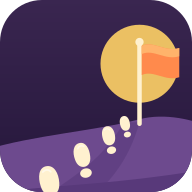
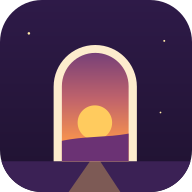
아이콘을 H안(아치 문 + 해 지는 풍경, 사람 없음)으로 교체
사용자가 고른 H 시안에서 사람·깃발을 뺀 버전. icons/·beta/icons/ 5종+favicon, sw v92c.
후보 E·F·G·H는 dev/icon-ideas에 보관.

Claude-Session: https://claude.ai/code/session_01A2etAarZHPcTgKgBA5Aask

diff --git a/beta/sw.js b/beta/sw.js
@@ -1,7 +1,7 @@
 // 습관 퀘스트 service worker: 기기 사본으로 바로 열고, 파일은 뒤에서 새로 받아요.
 const BETA = self.location.pathname.includes('/beta/');
 const PRE = BETA ? 'hqb-' : 'hq-';
-const VERSION = PRE + '2026-11-13-v92b';
+const VERSION = PRE + '2026-11-13-v92c';
 const EXT = VERSION + '-ext';
 const SHELL = ['./', './index.html', './backend.js', './manifest.webmanifest',
   './icons/icon-192.png', './icons/icon-512.png', './icons/icon-180.png', './icons/favicon.ico'];

diff --git a/sw.js b/sw.js
@@ -1,7 +1,7 @@
 // 습관 퀘스트 service worker: 기기 사본으로 바로 열고, 파일은 뒤에서 새로 받아요.
 const BETA = self.location.pathname.includes('/beta/');
 const PRE = BETA ? 'hqb-' : 'hq-';
-const VERSION = PRE + '2026-11-13-v92b';
+const VERSION = PRE + '2026-11-13-v92c';
 const EXT = VERSION + '-ext';
 const SHELL = ['./', './index.html', './backend.js', './manifest.webmanifest',
   './icons/icon-192.png', './icons/icon-512.png', './icons/icon-180.png', './icons/favicon.ico'];
